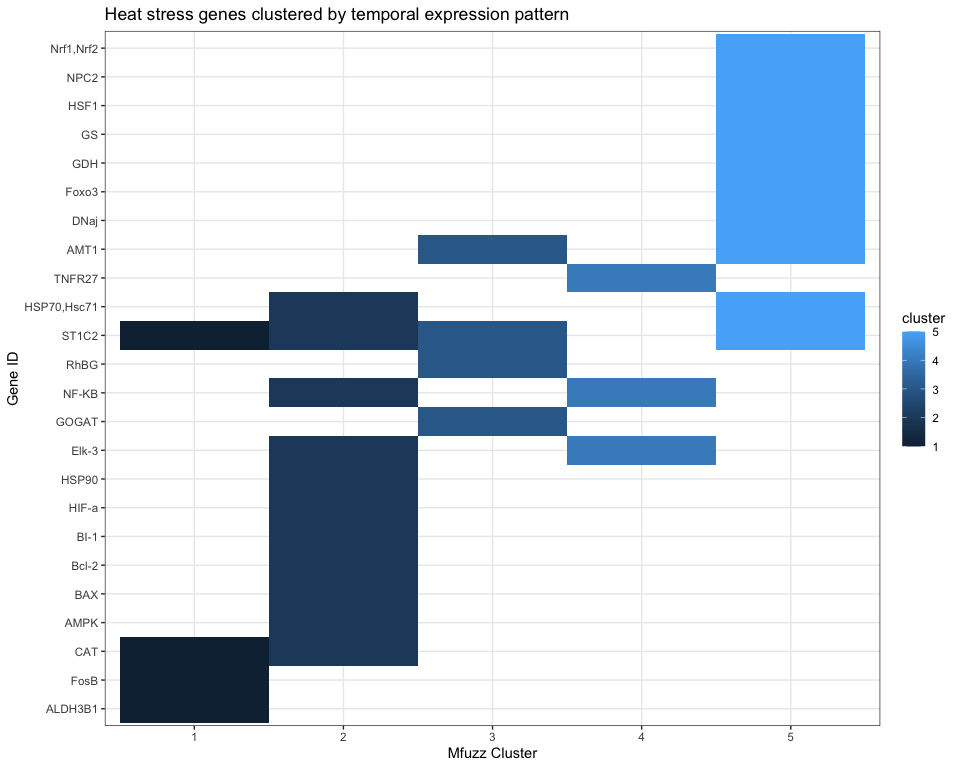
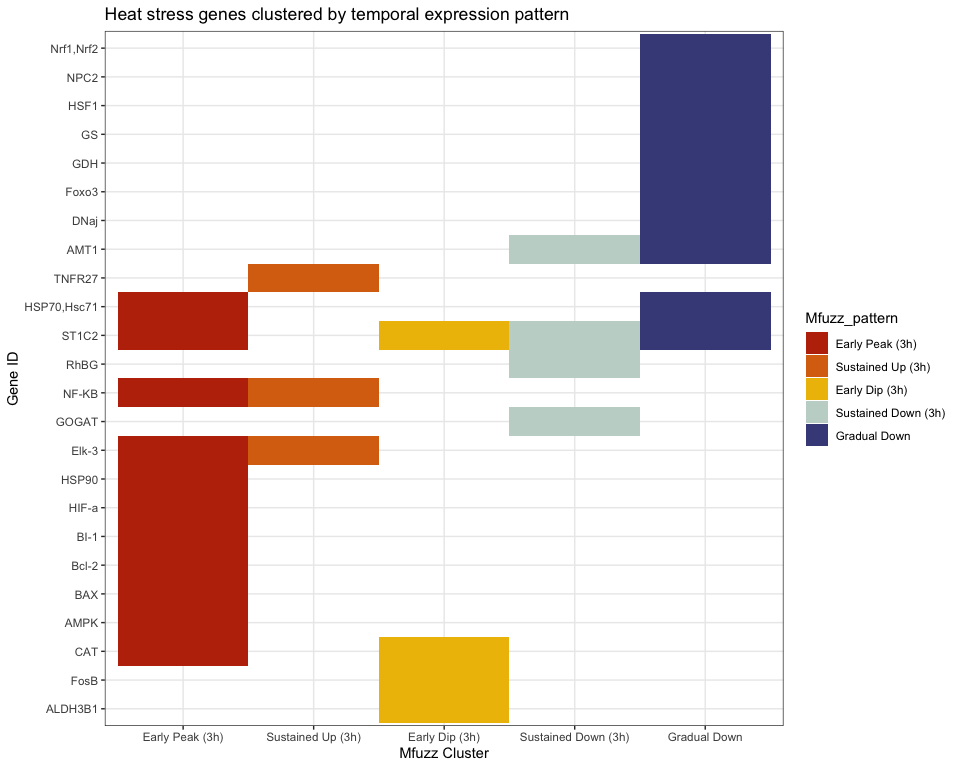
update heat map of heat stress genes with pattern labels in knit rmd

diff --git a/4-multi-species/output_RNA/reports/Mcap/02_ImpulseDE.md b/4-multi-species/output_RNA/reports/Mcap/02_ImpulseDE.md
@@ -1501,12 +1501,16 @@ cluster_assignments %>% filter(Gene %in% HSPS)
 
 ``` r
 heat_clustered <- HeatStressGenes_unique %>% left_join(cluster_assignments, by = join_by(query==Gene)) %>%
-  arrange(cluster, desc(cluster),gene_id)
+  arrange(cluster, desc(cluster),gene_id) %>%
+  left_join(Mfuzz_pattern_mapping, by = "cluster") %>%
+  dplyr::rename(Mfuzz_pattern = pattern) %>%
+              mutate(Mfuzz_pattern=factor(Mfuzz_pattern, levels=logical_order))
 
 # plot this to show which genes are in which cluster
-heat_clustered %>% filter(!is.na(cluster)) %>% ggplot(aes(y=reorder(gene_id, cluster), x=factor(cluster), fill=cluster)) +
+heat_clustered %>% filter(!is.na(cluster)) %>% ggplot(aes(y=reorder(gene_id, cluster), x=factor(Mfuzz_pattern), fill=Mfuzz_pattern)) +
   geom_tile() +
   theme_bw() +
+  scale_fill_manual(values=mfuzz_cols) + 
   labs(x="Mfuzz Cluster", y="Gene ID", title="Heat stress genes clustered by temporal expression pattern")
 ```
 

diff --git a/4-multi-species/output_RNA/reports/Pacuta/02_ImpulseDE.md b/4-multi-species/output_RNA/reports/Pacuta/02_ImpulseDE.md
@@ -1518,12 +1518,16 @@ cluster_assignments %>% filter(Gene %in% HSPS)
 
 ``` r
 heat_clustered <- HeatStressGenes_unique %>% left_join(cluster_assignments, by = join_by(query==Gene)) %>%
-  arrange(cluster, desc(cluster),gene_id)
+  arrange(cluster, desc(cluster),gene_id) %>%
+  left_join(Mfuzz_pattern_mapping, by = "cluster") %>%
+  dplyr::rename(Mfuzz_pattern = pattern) %>%
+              mutate(Mfuzz_pattern=factor(Mfuzz_pattern, levels=logical_order))
 
 # plot this to show which genes are in which cluster
-heat_clustered %>% filter(!is.na(cluster)) %>% ggplot(aes(y=reorder(gene_id, cluster), x=factor(cluster), fill=cluster)) +
+heat_clustered %>% filter(!is.na(cluster)) %>% ggplot(aes(y=reorder(gene_id, cluster), x=factor(Mfuzz_pattern), fill=Mfuzz_pattern)) +
   geom_tile() +
   theme_bw() +
+  scale_fill_manual(values=mfuzz_cols) + 
   labs(x="Mfuzz Cluster", y="Gene ID", title="Heat stress genes clustered by temporal expression pattern")
 ```
 

diff --git a/4-multi-species/output_RNA/reports/Pcomp/02_ImpulseDE.md b/4-multi-species/output_RNA/reports/Pcomp/02_ImpulseDE.md
@@ -1517,12 +1517,16 @@ cluster_assignments %>% filter(Gene %in% HSPS)
 
 ``` r
 heat_clustered <- HeatStressGenes_unique %>% left_join(cluster_assignments, by = join_by(query==Gene)) %>%
-  arrange(cluster, desc(cluster),gene_id)
+  arrange(cluster, desc(cluster),gene_id) %>%
+  left_join(Mfuzz_pattern_mapping, by = "cluster") %>%
+  dplyr::rename(Mfuzz_pattern = pattern) %>%
+              mutate(Mfuzz_pattern=factor(Mfuzz_pattern, levels=logical_order))
 
 # plot this to show which genes are in which cluster
-heat_clustered %>% filter(!is.na(cluster)) %>% ggplot(aes(y=reorder(gene_id, cluster), x=factor(cluster), fill=cluster)) +
+heat_clustered %>% filter(!is.na(cluster)) %>% ggplot(aes(y=reorder(gene_id, cluster), x=factor(Mfuzz_pattern), fill=Mfuzz_pattern)) +
   geom_tile() +
   theme_bw() +
+  scale_fill_manual(values=mfuzz_cols) + 
   labs(x="Mfuzz Cluster", y="Gene ID", title="Heat stress genes clustered by temporal expression pattern")
 ```
 
